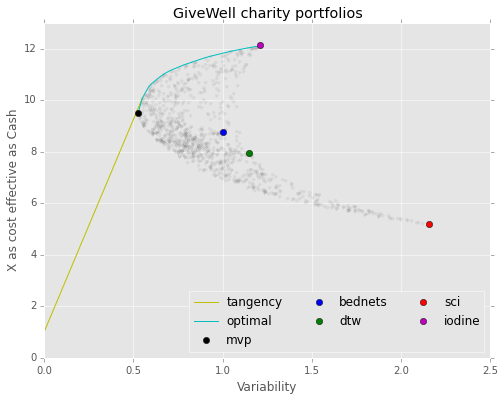
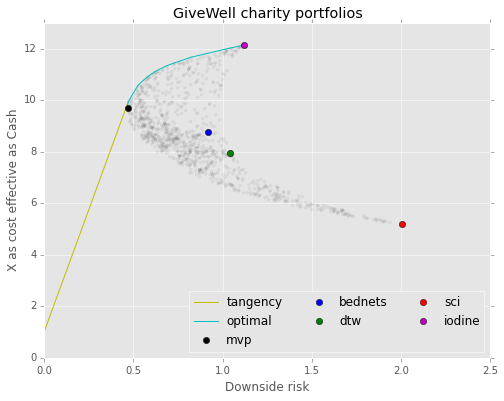
graph labels

diff --git a/ea_portfolio.py b/ea_portfolio.py
@@ -56,11 +56,11 @@ if __name__ == '__main__':
     n = data.shape[1]
     N = 1000
     
-    #t = 1.0
+    t = 5.0
     
     # individual returns
     p = data.mean().as_matrix()
-    t = np.min(p)
+    #t = np.min(p)
     s = data.apply(lambda x: downside_risk(x, t), axis=0).as_matrix()
     #s = data.std().as_matrix()
     
@@ -105,7 +105,7 @@ if __name__ == '__main__':
     
     plt.legend(loc='lower right', ncol=3, numpoints=1)
     plt.title('GiveWell charity portfolios')
-    plt.xlabel('Variability')
+    plt.xlabel('Downside risk')
     plt.ylabel('X as cost effective as Cash')
 
     
